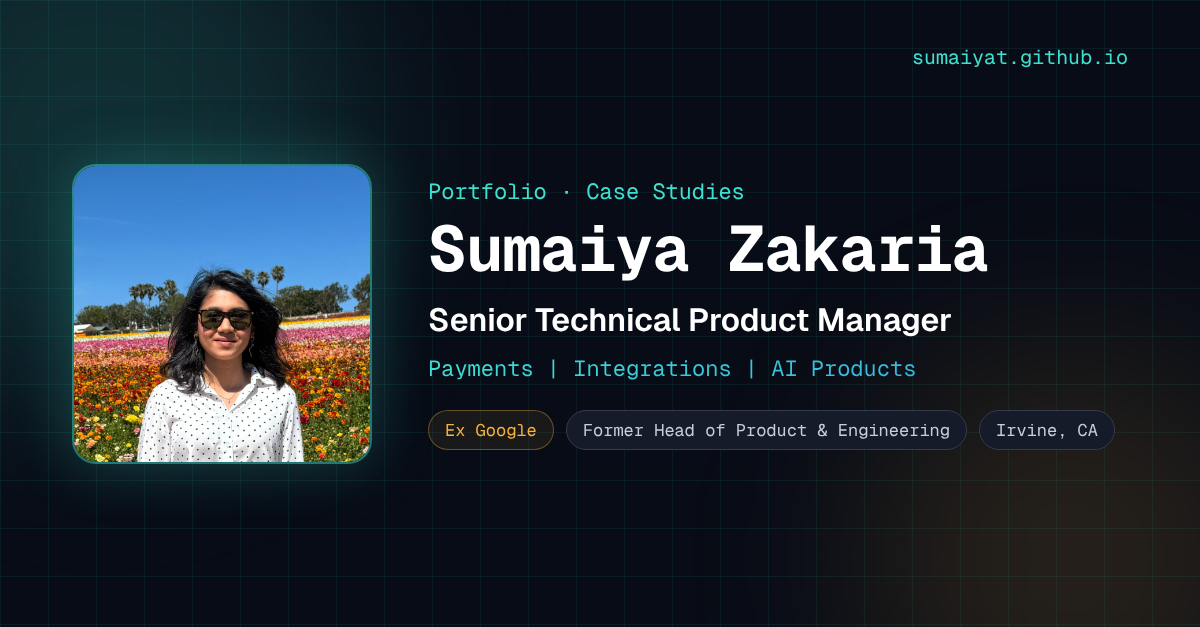
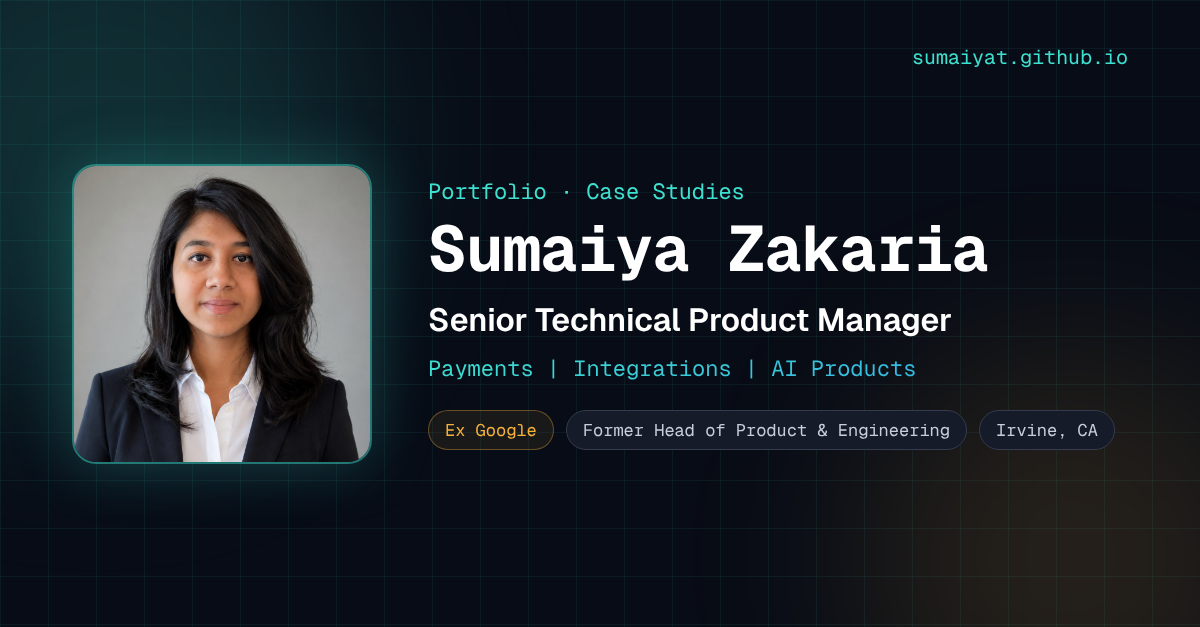
Use professional headshot for About photo and link preview
Claude-Session: https://claude.ai/code/session_01B276Pq1XCbuBF7Yamjqu3b

Changed region(s): [[0.0617, 0.2424, 0.3083, 0.7576]]

diff --git a/src/components/AboutSection.tsx b/src/components/AboutSection.tsx
@@ -31,7 +31,7 @@ export const AboutSection = () => {
 
                 {/* Profile Image */}
                 <img
-                  src="/profile.jpg?v=3"
+                  src="/profile.jpg?v=4"
                   alt="Syeda Sumaiya Tabassum Zakaria (Sumaiya Zakaria)"
                   className="absolute inset-0 w-full h-full object-cover object-center z-10"
                   onError={(e) => {
